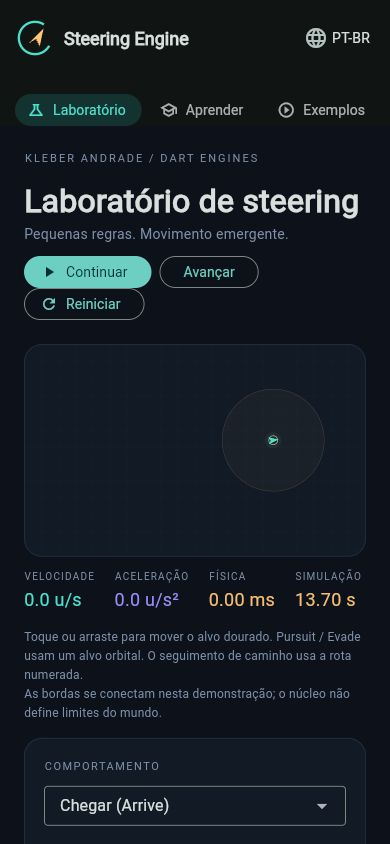
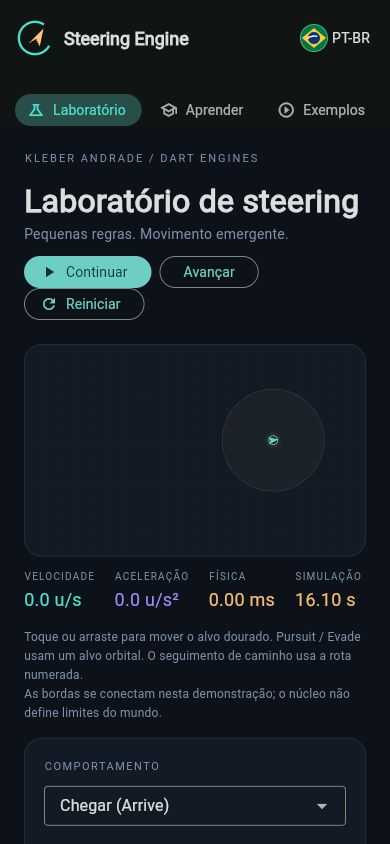
chore(lab): use accessible circular flags for language selection
Draw Brazil and United Kingdom flags locally, show checked locale choices, and preserve the running experiment. Validated with 13 full-lab tests, 3 Flame tests, analyzers, both Web builds and refreshed desktop/mobile screenshots.

diff --git a/example/lab_ui/lib/steering_lab_ui.dart b/example/lab_ui/lib/steering_lab_ui.dart
@@ -68,6 +68,109 @@ class _MarkPainter extends CustomPainter {
   bool shouldRepaint(_MarkPainter oldDelegate) => false;
 }
 
+/// Locally drawn circular country flags; no emoji or remote image dependency.
+class CircularFlag extends StatelessWidget {
+  const CircularFlag({
+    super.key,
+    required this.portuguese,
+    required this.label,
+  });
+  final bool portuguese;
+  final String label;
+  @override
+  Widget build(BuildContext context) => Semantics(
+    image: true,
+    label: label,
+    child: SizedBox(
+      width: 28,
+      height: 28,
+      child: CustomPaint(painter: _FlagPainter(portuguese)),
+    ),
+  );
+}
+
+class _FlagPainter extends CustomPainter {
+  const _FlagPainter(this.portuguese);
+  final bool portuguese;
+  @override
+  void paint(Canvas canvas, Size size) {
+    canvas.save();
+    canvas.clipPath(Path()..addOval(Offset.zero & size));
+    canvas.scale(size.width / 28, size.height / 28);
+    final paint = Paint();
+    canvas.drawRect(
+      const Rect.fromLTWH(0, 0, 28, 28),
+      paint..color = Color(portuguese ? 0xff168447 : 0xff163c82),
+    );
+    if (portuguese) {
+      canvas.drawPath(
+        Path()
+          ..moveTo(2, 14)
+          ..lineTo(14, 4)
+          ..lineTo(26, 14)
+          ..lineTo(14, 24)
+          ..close(),
+        paint..color = const Color(0xffffcf35),
+      );
+      canvas.drawCircle(
+        const Offset(14, 14),
+        6,
+        paint..color = const Color(0xff163c82),
+      );
+      canvas.drawArc(
+        const Rect.fromLTWH(7, 12, 15, 9),
+        3.55,
+        1.55,
+        false,
+        paint
+          ..color = Colors.white
+          ..style = PaintingStyle.stroke
+          ..strokeWidth = 1.4,
+      );
+    } else {
+      void diagonal(Color color, double width) {
+        canvas.drawPath(
+          Path()
+            ..moveTo(-2, -2)
+            ..lineTo(30, 30)
+            ..moveTo(30, -2)
+            ..lineTo(-2, 30),
+          paint
+            ..color = color
+            ..style = PaintingStyle.stroke
+            ..strokeWidth = width,
+        );
+      }
+
+      diagonal(Colors.white, 6);
+      diagonal(const Color(0xffce2b37), 2);
+      paint.style = PaintingStyle.fill;
+      canvas.drawRect(
+        const Rect.fromLTWH(10, 0, 8, 28),
+        paint..color = Colors.white,
+      );
+      canvas.drawRect(const Rect.fromLTWH(0, 10, 28, 8), paint);
+      canvas.drawRect(
+        const Rect.fromLTWH(12, 0, 4, 28),
+        paint..color = const Color(0xffce2b37),
+      );
+      canvas.drawRect(const Rect.fromLTWH(0, 12, 28, 4), paint);
+    }
+    canvas.restore();
+    canvas.drawCircle(
+      size.center(Offset.zero),
+      size.width / 2 - .5,
+      Paint()
+        ..color = Colors.white38
+        ..style = PaintingStyle.stroke,
+    );
+  }
+
+  @override
+  bool shouldRepaint(_FlagPainter oldDelegate) =>
+      portuguese != oldDelegate.portuguese;
+}
+
 class LabShell extends StatefulWidget {
   const LabShell({
     super.key,
@@ -86,6 +189,12 @@ class _LabShellState extends State<LabShell> {
   int _page = 0;
   late bool _pt = platform.loadLanguage() == 'pt';
   String text(String en, String pt) => _pt ? pt : en;
+  Widget flag(bool portuguese) => CircularFlag(
+    portuguese: portuguese,
+    label: portuguese
+        ? text('Brazil flag', 'Bandeira do Brasil')
+        : text('United Kingdom flag', 'Bandeira do Reino Unido'),
+  );
   void preset(String mode) {
     widget.onPreset?.call(mode);
     setState(() => _page = 0);
@@ -130,15 +239,35 @@ class _LabShellState extends State<LabShell> {
                 setState(() => _pt = value);
                 platform.saveLanguage(value ? 'pt' : 'en');
               },
-              itemBuilder: (context) => const [
-                PopupMenuItem(value: false, child: Text('English')),
-                PopupMenuItem(value: true, child: Text('Português')),
+              itemBuilder: (context) => [
+                CheckedPopupMenuItem(
+                  value: false,
+                  checked: !_pt,
+                  child: Row(
+                    children: [
+                      flag(false),
+                      const SizedBox(width: 10),
+                      const Text('English'),
+                    ],
+                  ),
+                ),
+                CheckedPopupMenuItem(
+                  value: true,
+                  checked: _pt,
+                  child: Row(
+                    children: [
+                      flag(true),
+                      const SizedBox(width: 10),
+                      const Text('Português'),
+                    ],
+                  ),
+                ),
               ],
               child: Padding(
                 padding: const EdgeInsets.all(12),
                 child: Row(
                   children: [
-                    const Icon(Icons.language),
+                    flag(_pt),
                     const SizedBox(width: 4),
                     Text(_pt ? 'PT-BR' : 'EN'),
                   ],

diff --git a/example/flutter_lab/test/navigation_test.dart b/example/flutter_lab/test/navigation_test.dart
@@ -9,36 +9,54 @@ void main() {
   ) async {
     await tester.binding.setSurfaceSize(const Size(1400, 1100));
     addTearDown(() => tester.binding.setSurfaceSize(null));
-    await tester.pumpWidget(const SteeringLab());
-    await tester.tap(find.text('Pause'));
-    await tester.pump();
-    final before =
-        (tester
-                    .widget<CustomPaint>(find.byKey(const Key('simulation')))
-                    .painter!
-                as SteeringPainter)
-            .agent
-            .position;
-    await tester.tap(find.text('Learn'));
-    await tester.pump();
-    expect(find.text('Motion from small rules'), findsOneWidget);
-    await tester.tap(find.byKey(const Key('language')));
-    await tester.pumpAndSettle();
-    await tester.tap(find.text('Português').last);
-    await tester.pumpAndSettle();
-    expect(find.text('Movimento a partir de pequenas regras'), findsOneWidget);
-    await tester.tap(find.text('Laboratório'));
-    await tester.pump();
-    expect(find.text('Continuar'), findsOneWidget);
-    final after =
-        (tester
-                    .widget<CustomPaint>(find.byKey(const Key('simulation')))
-                    .painter!
-                as SteeringPainter)
-            .agent
-            .position;
-    expect(after, before);
-    expect(tester.takeException(), isNull);
+    final semantics = tester.ensureSemantics();
+    try {
+      await tester.pumpWidget(const SteeringLab());
+      expect(
+        find.bySemanticsLabel(RegExp('United Kingdom flag')),
+        findsWidgets,
+      );
+      await tester.tap(find.text('Pause'));
+      await tester.pump();
+      final before =
+          (tester
+                      .widget<CustomPaint>(find.byKey(const Key('simulation')))
+                      .painter!
+                  as SteeringPainter)
+              .agent
+              .position;
+      await tester.tap(find.text('Learn'));
+      await tester.pump();
+      expect(find.text('Motion from small rules'), findsOneWidget);
+      await tester.tap(find.byKey(const Key('language')));
+      await tester.pumpAndSettle();
+      await tester.tap(
+        find.ancestor(
+          of: find.text('Português').last,
+          matching: find.byType(CheckedPopupMenuItem<bool>),
+        ),
+      );
+      await tester.pumpAndSettle();
+      expect(
+        find.text('Movimento a partir de pequenas regras'),
+        findsOneWidget,
+      );
+      expect(find.bySemanticsLabel(RegExp('Bandeira do Brasil')), findsWidgets);
+      await tester.tap(find.text('Laboratório'));
+      await tester.pump();
+      expect(find.text('Continuar'), findsOneWidget);
+      final after =
+          (tester
+                      .widget<CustomPaint>(find.byKey(const Key('simulation')))
+                      .painter!
+                  as SteeringPainter)
+              .agent
+              .position;
+      expect(after, before);
+      expect(tester.takeException(), isNull);
+    } finally {
+      semantics.dispose();
+    }
   });
   testWidgets('mobile navigation opens translated presets and documentation', (
     tester,
@@ -58,7 +76,12 @@ void main() {
     await tester.tap(find.byKey(const Key('language')));
     await tester.pump();
     await tester.pump(const Duration(milliseconds: 300));
-    await tester.tap(find.text('Português').last);
+    await tester.tap(
+      find.ancestor(
+        of: find.text('Português').last,
+        matching: find.byType(CheckedPopupMenuItem<bool>),
+      ),
+    );
     await tester.pump();
     expect(find.text('Pausar'), findsOneWidget);
     expect(find.textContaining('Velocidade máxima'), findsOneWidget);

diff --git a/example/flame_lab/test/navigation_test.dart b/example/flame_lab/test/navigation_test.dart
@@ -30,7 +30,12 @@ void main() {
     expect(before?.paused, isTrue);
     await tester.tap(find.byKey(const Key('language')));
     await tester.pumpAndSettle();
-    await tester.tap(find.text('Português').last);
+    await tester.tap(
+      find.ancestor(
+        of: find.text('Português').last,
+        matching: find.byType(CheckedPopupMenuItem<bool>),
+      ),
+    );
     await tester.pumpAndSettle();
     await tester.tap(find.text('Laboratório'));
     await tester.pump();

diff --git a/example/lab_ui/README.md b/example/lab_ui/README.md
@@ -6,6 +6,8 @@ of the pure Dart engine and is not published to pub.dev.
 - Original code-drawn orbit-and-heading logo and matching SVG favicons.
 - Horizontally scrollable navigation on narrow screens; keyboard-focusable
   Material controls for Laboratory, Learn, Examples and Documentation.
+- Circular, locally drawn Brazil/United Kingdom flags with accessible labels and
+  selected-language menu state. No emoji flags or external asset downloads.
 - English and Brazilian Portuguese interface, native Material localization and
   educational content. Browser preference is shared by the two laboratories;
   disabled storage falls back to the active session. Desktop tests use a safe

diff --git a/doc/engineering_log.md b/doc/engineering_log.md
@@ -416,3 +416,7 @@
   or performed as part of this laboratory work. CLI examples and four JavaScript
   compile/run smoke checks passed. The package dry-run initially warned about
   uncommitted metadata; validation of the clean commit is a separate final gate.
+
+- Follow-up before the first push: the user requested circular flag language
+  buttons. Added local vector Brazil/UK flags, accessible country labels and
+  checked locale menu items, preserving the existing locale/state behavior.
